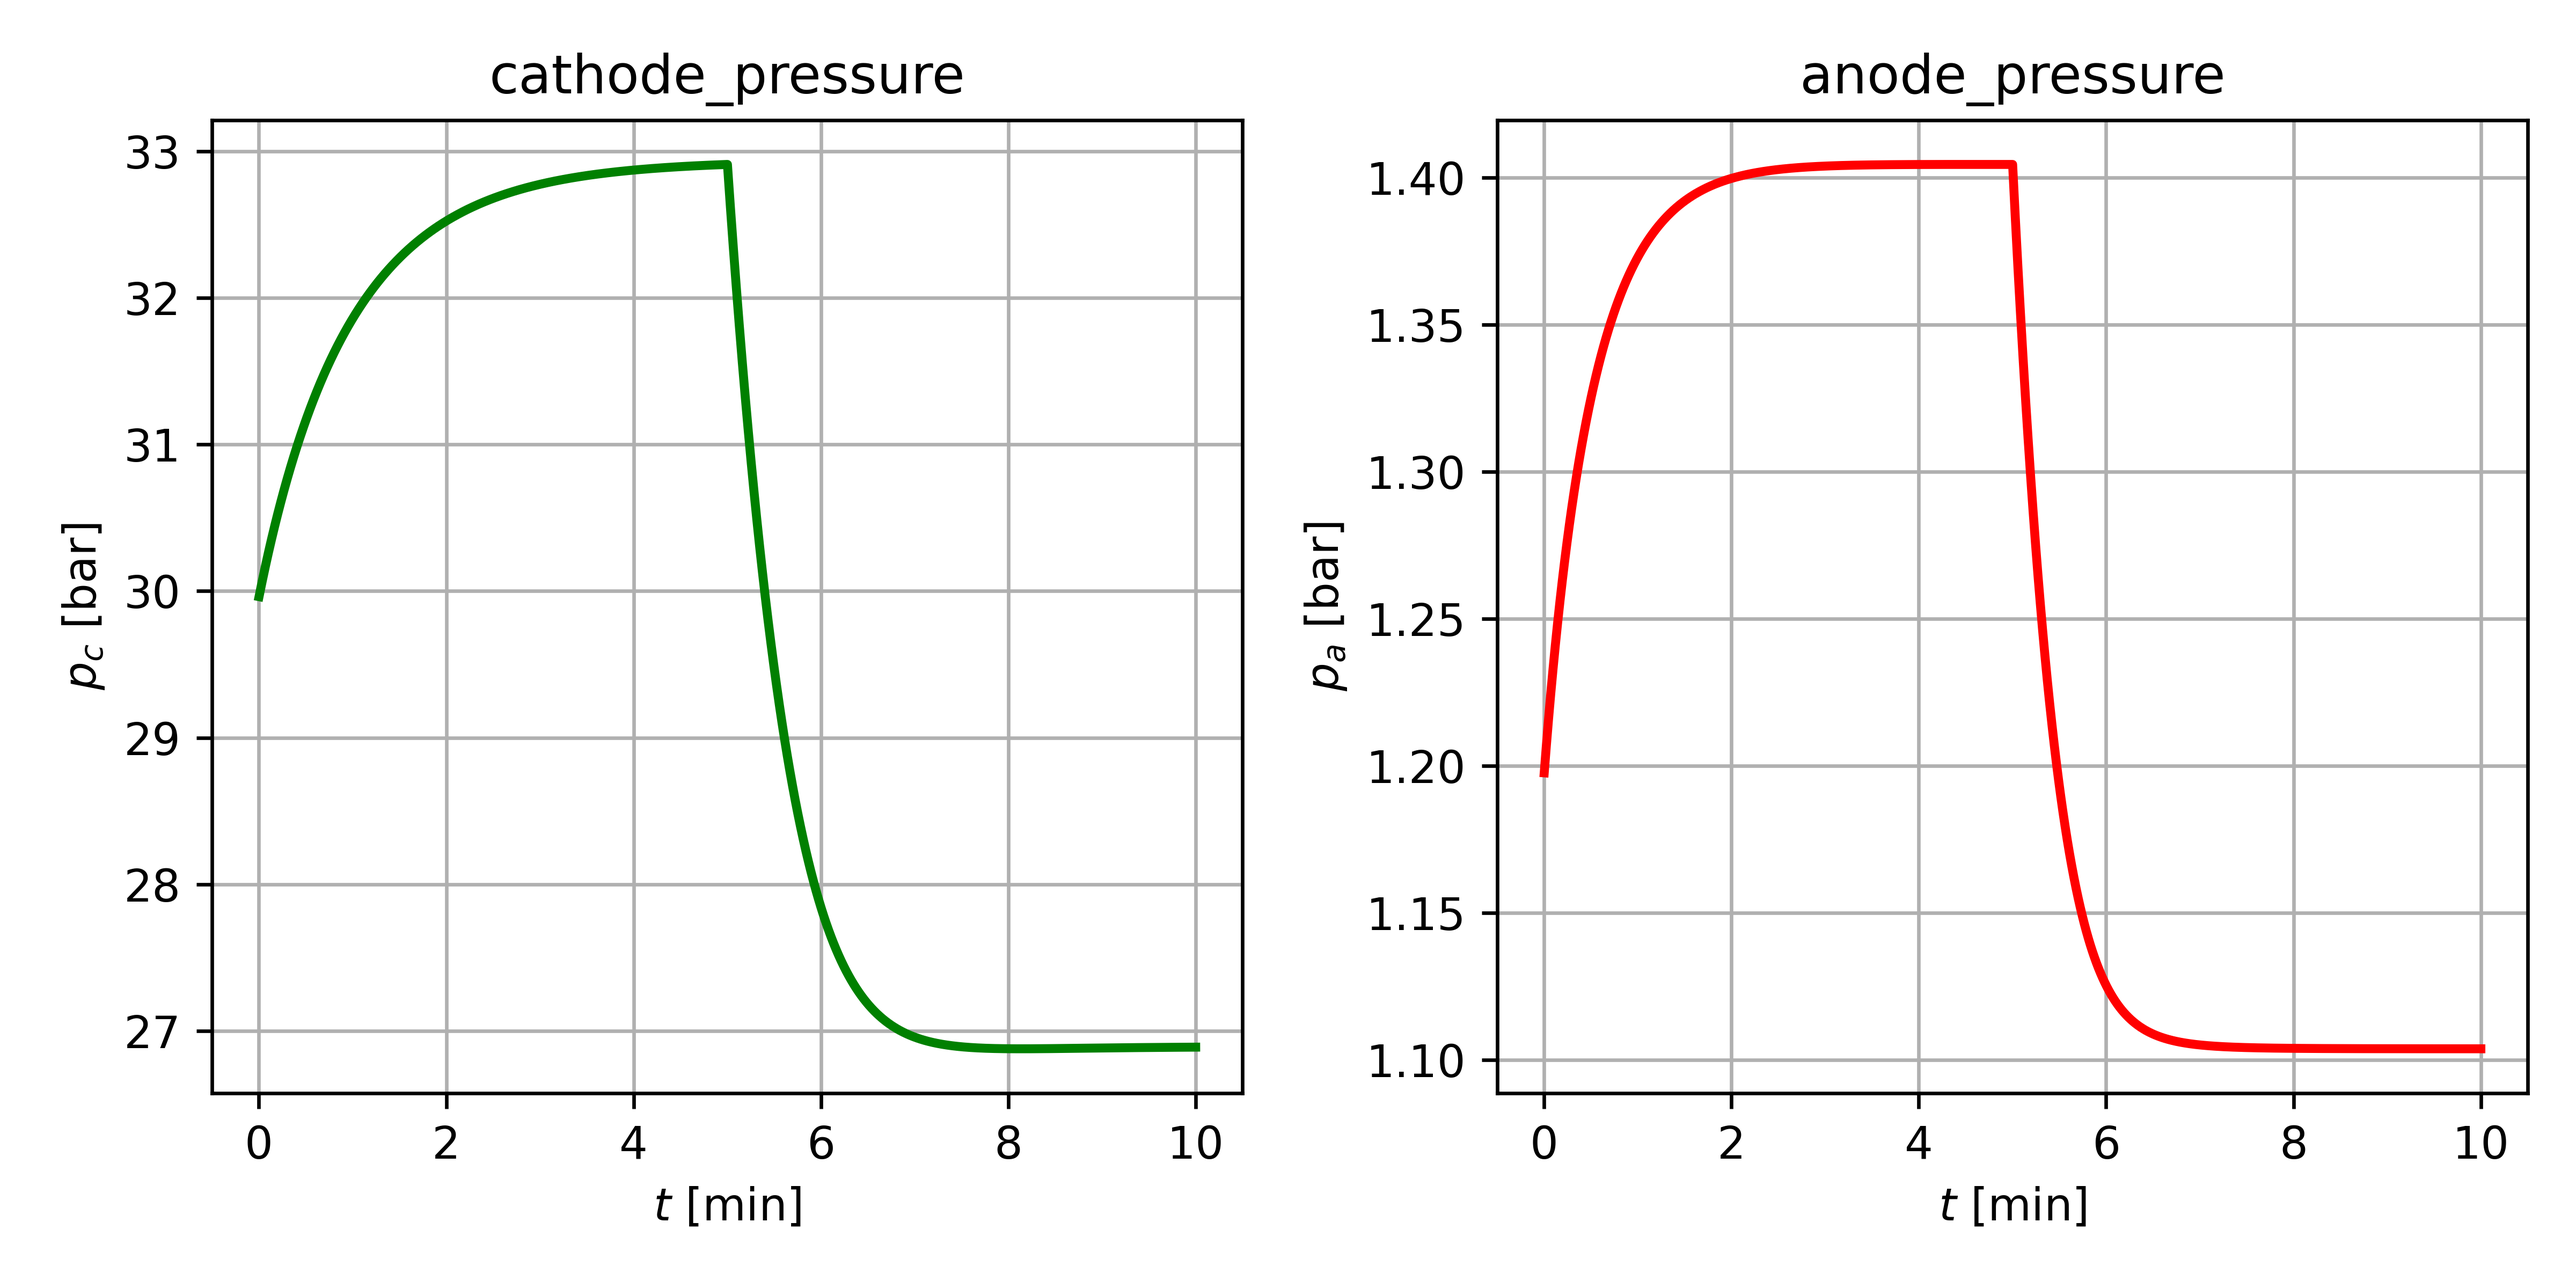
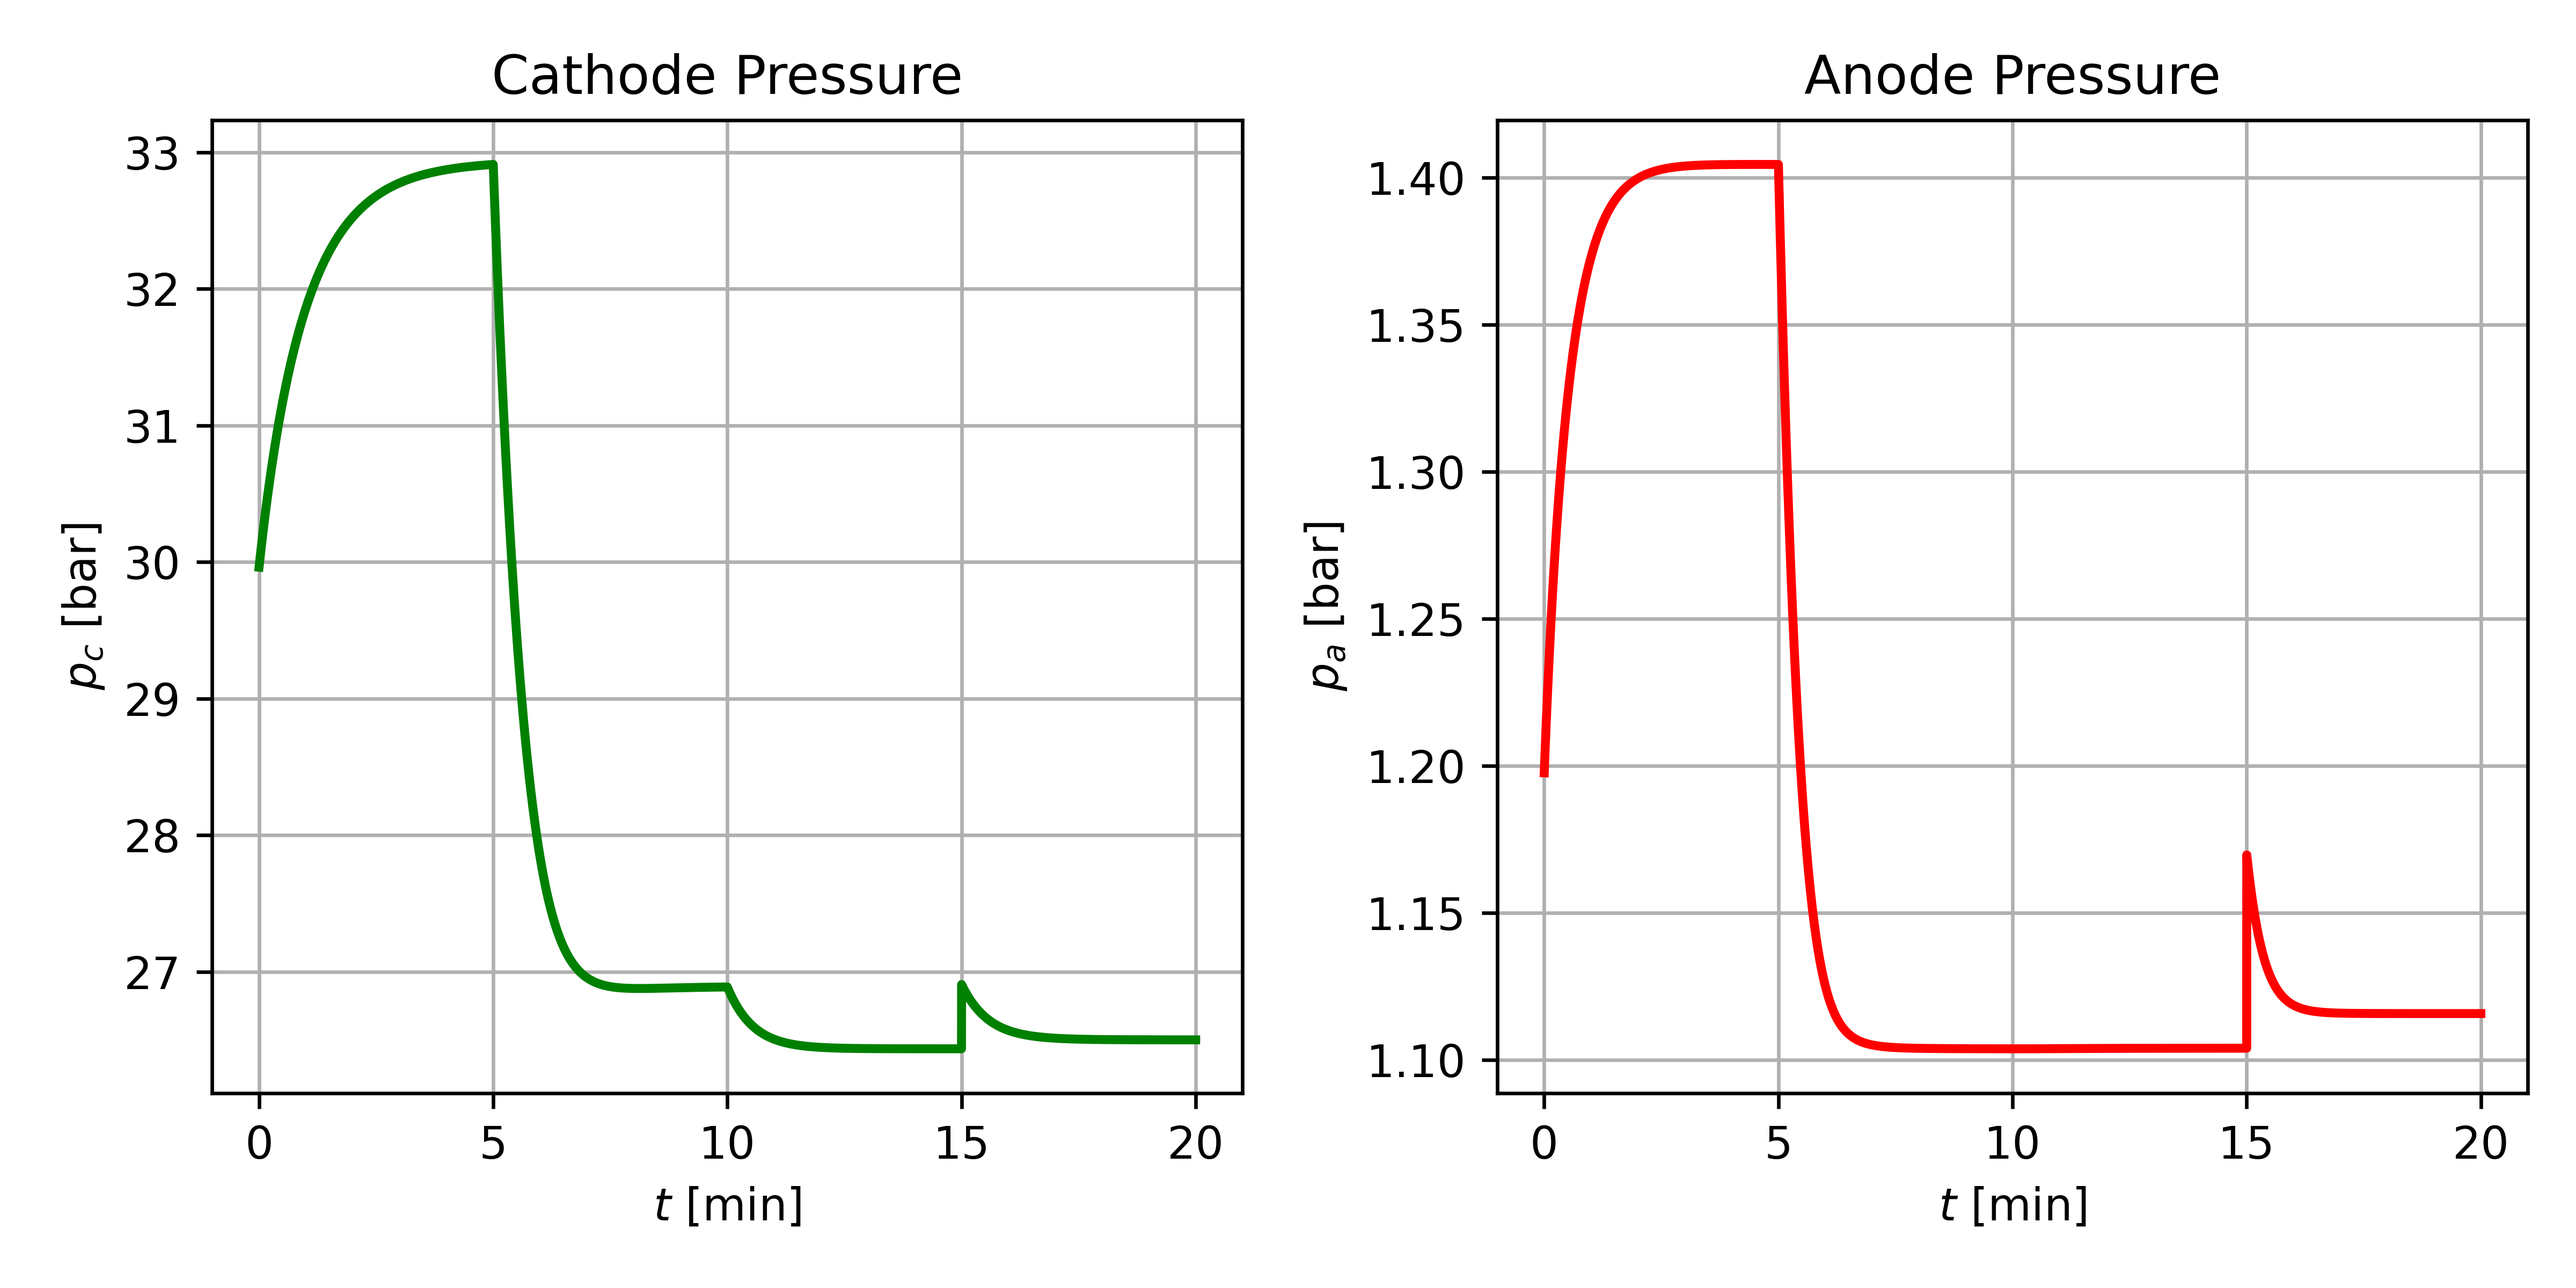
Removed/replaced plots
added step change plots

diff --git a/andreasplotter.py b/andreasplotter.py
@@ -40,7 +40,8 @@ custom_property_history = {
 }  # Track any custom property
 
 ### RUN SIMULATION ###
-duration = 60*10
+# run for 10 minutes if steady state, else 20 minutes
+duration = 60*(20-10*p.steadystate)
 dt = 0.1
 steps = int(duration/dt)
 
